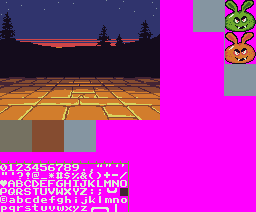
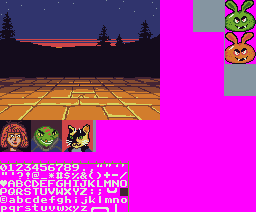
Added portraits.

Changed region(s): [[0.0, 0.566, 0.375, 0.7358]]

diff --git a/src/dungeon.c b/src/dungeon.c
@@ -249,34 +249,34 @@ void sf_draw_tiles_background(void)
 	}
 }
 
-void sf_draw_avatars(void)
+void sf_draw_portraits(void)
 {
-	// Avatar images.
+	// Portraits.
 	sf_screen_copy(0, 120,
-				   32, 32,
-				   180, 1 * 32 + 4,
+				   31, 32,
+				   180, 1 * 31 + 4,
 				   SPRITES_PAGE, active_page, opHMMM);
 
 	sf_screen_copy(32, 120,
-				   32, 32,
-				   180, 2 * 32 + 4 + 8,
+				   31, 32,
+				   180, 2 * 31 + 4 + 8,
 				   SPRITES_PAGE, active_page, opHMMM);
 
-	sf_screen_copy(64, 120,
-				   32, 32,
-				   180, 3 * 32 + 4 + 8 + 8,
+	sf_screen_copy(63, 120,
+				   31, 32,
+				   180, 3 * 31 + 4 + 8 + 8,
 				   SPRITES_PAGE, active_page, opHMMM);
 
 	// HP bars.
-	LMMV(180 + 32 + 2, 1 * 32 + 4 + active_page * 256,
+	LMMV(180 + 31 + 2, 1 * 31 + 4 + active_page * 256,
 		 4, 32,
 		 11, 0);
 
-	LMMV(180 + 32 + 2, 2 * 32 + 4 + 8 + active_page * 256,
+	LMMV(180 + 31 + 2, 2 * 31 + 4 + 8 + active_page * 256,
 		 4, 32,
 		 11, 0);
 
-	LMMV(180 + 32 + 2, 3 * 32 + 4 + 8 + 8 + active_page * 256,
+	LMMV(180 + 31 + 2, 3 * 31 + 4 + 8 + 8 + active_page * 256,
 		 4, 32,
 		 11, 0);
 
@@ -351,8 +351,8 @@ void sf_draw_dungeon_view(void)
 	// Debug: Palette.
 	sf_draw_palette();
 
-	// Party avatars.
-	sf_draw_avatars();
+	// Party portraits.
+	sf_draw_portraits();
 
 	// Compass.
 	switch(player_dir)
